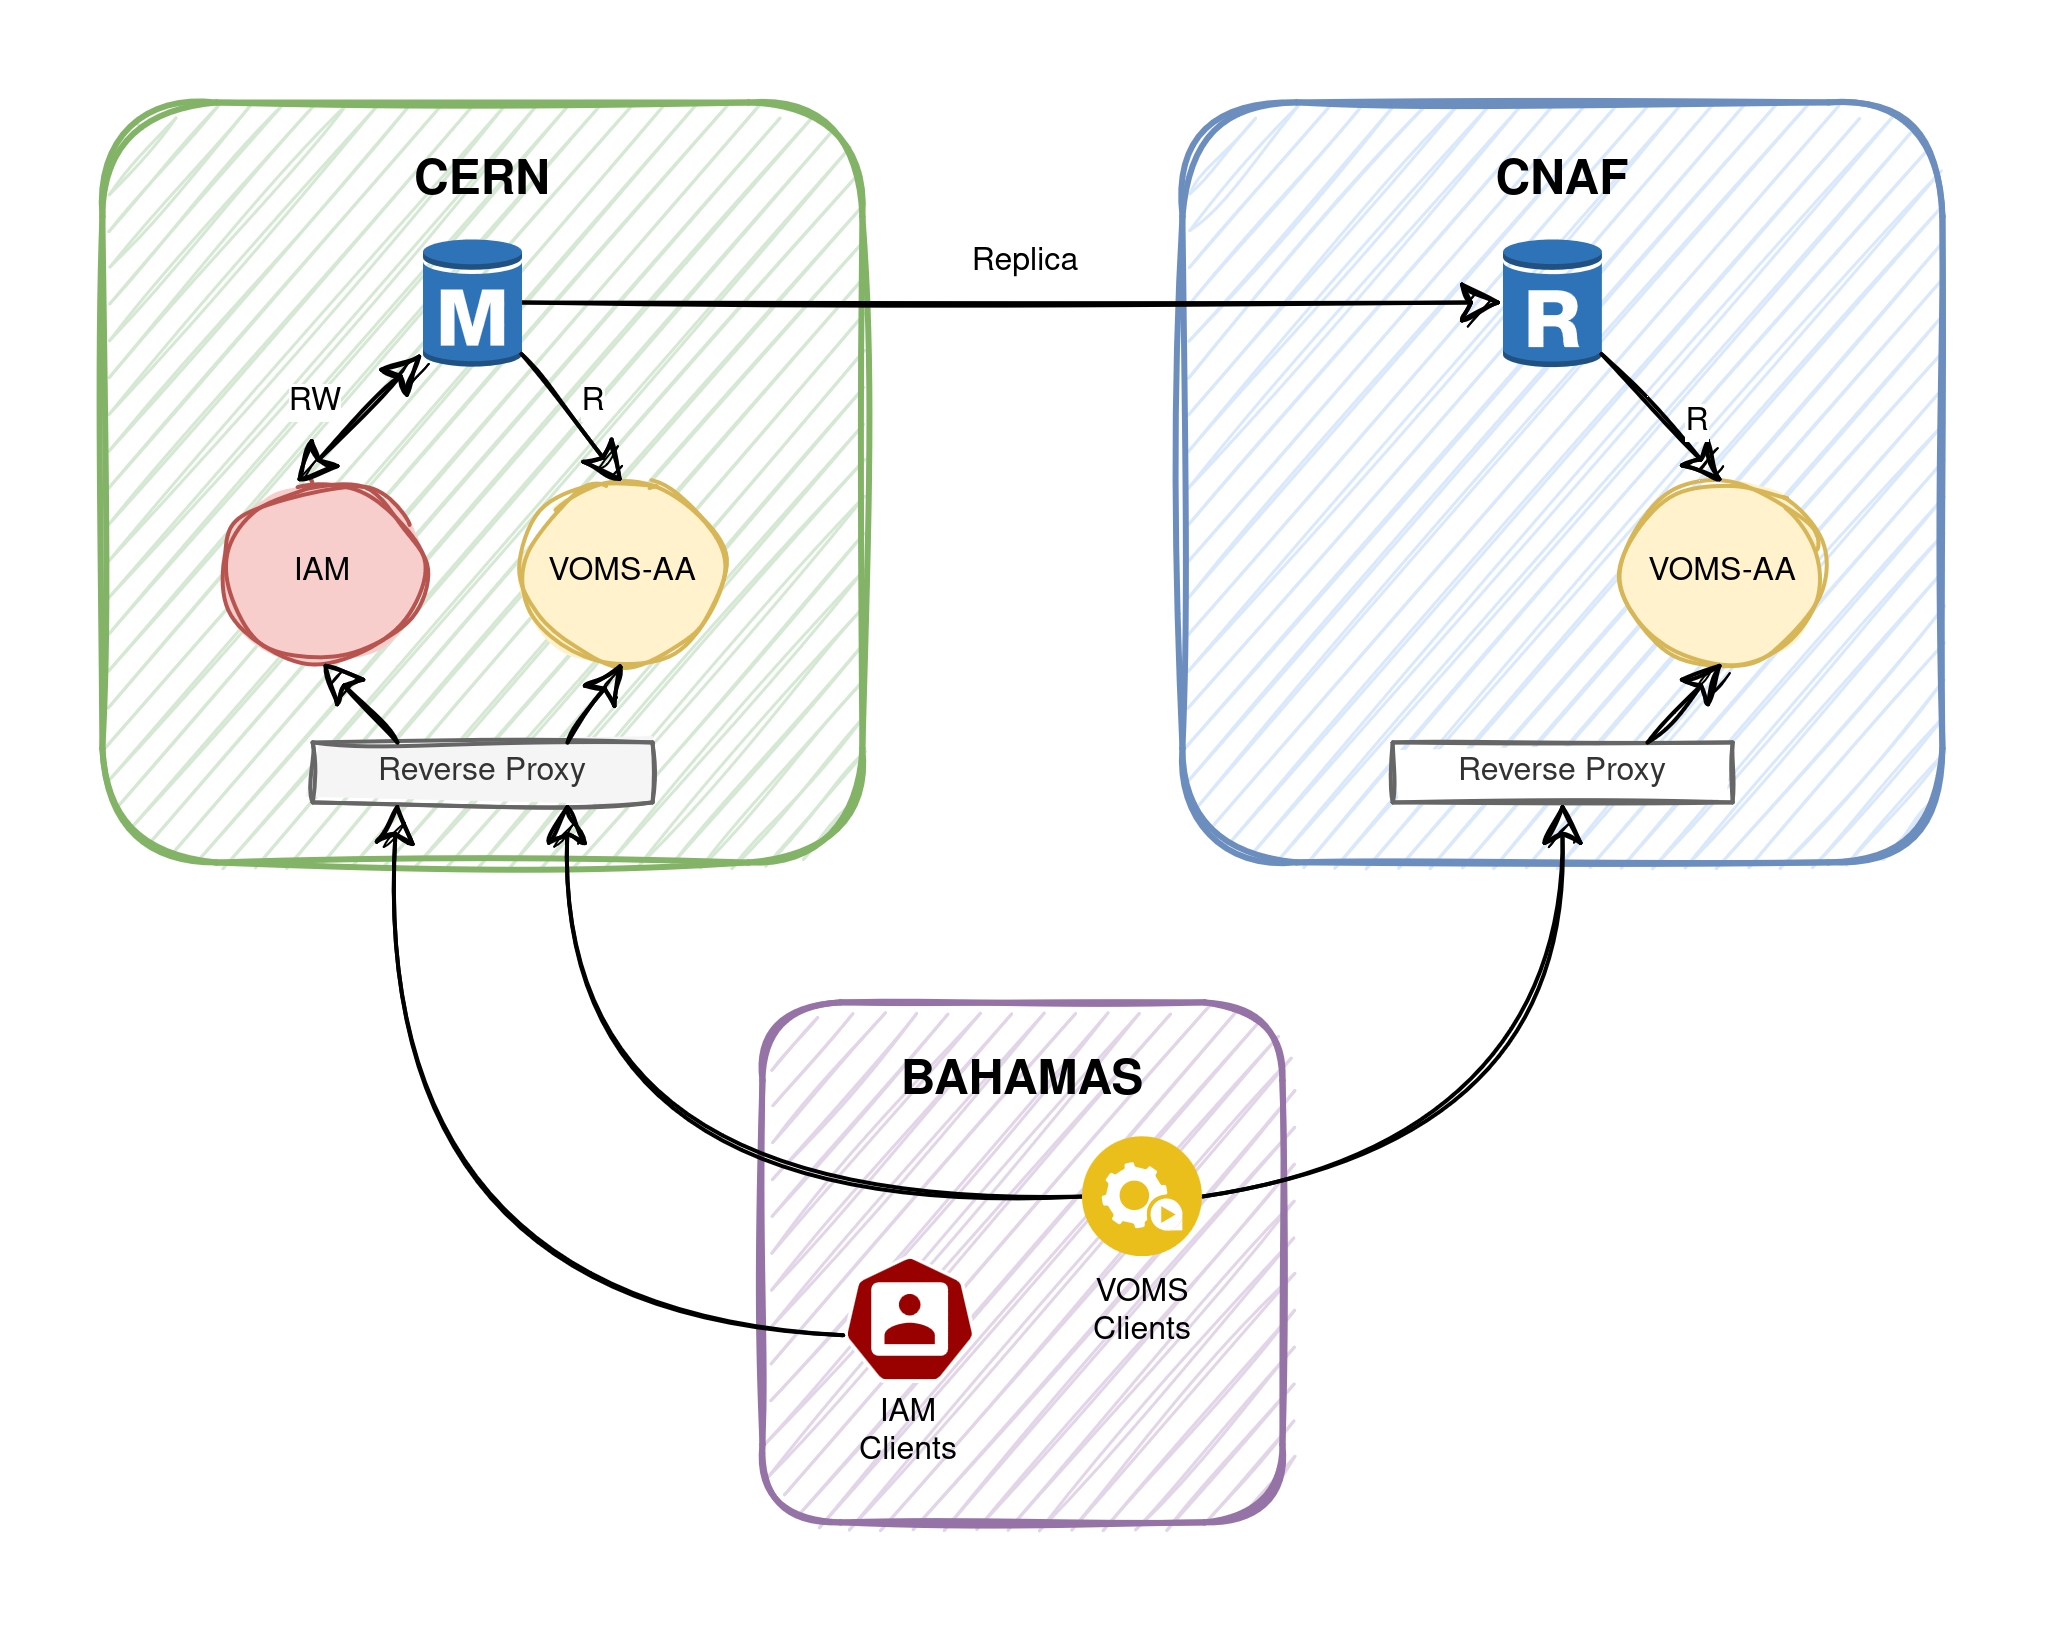
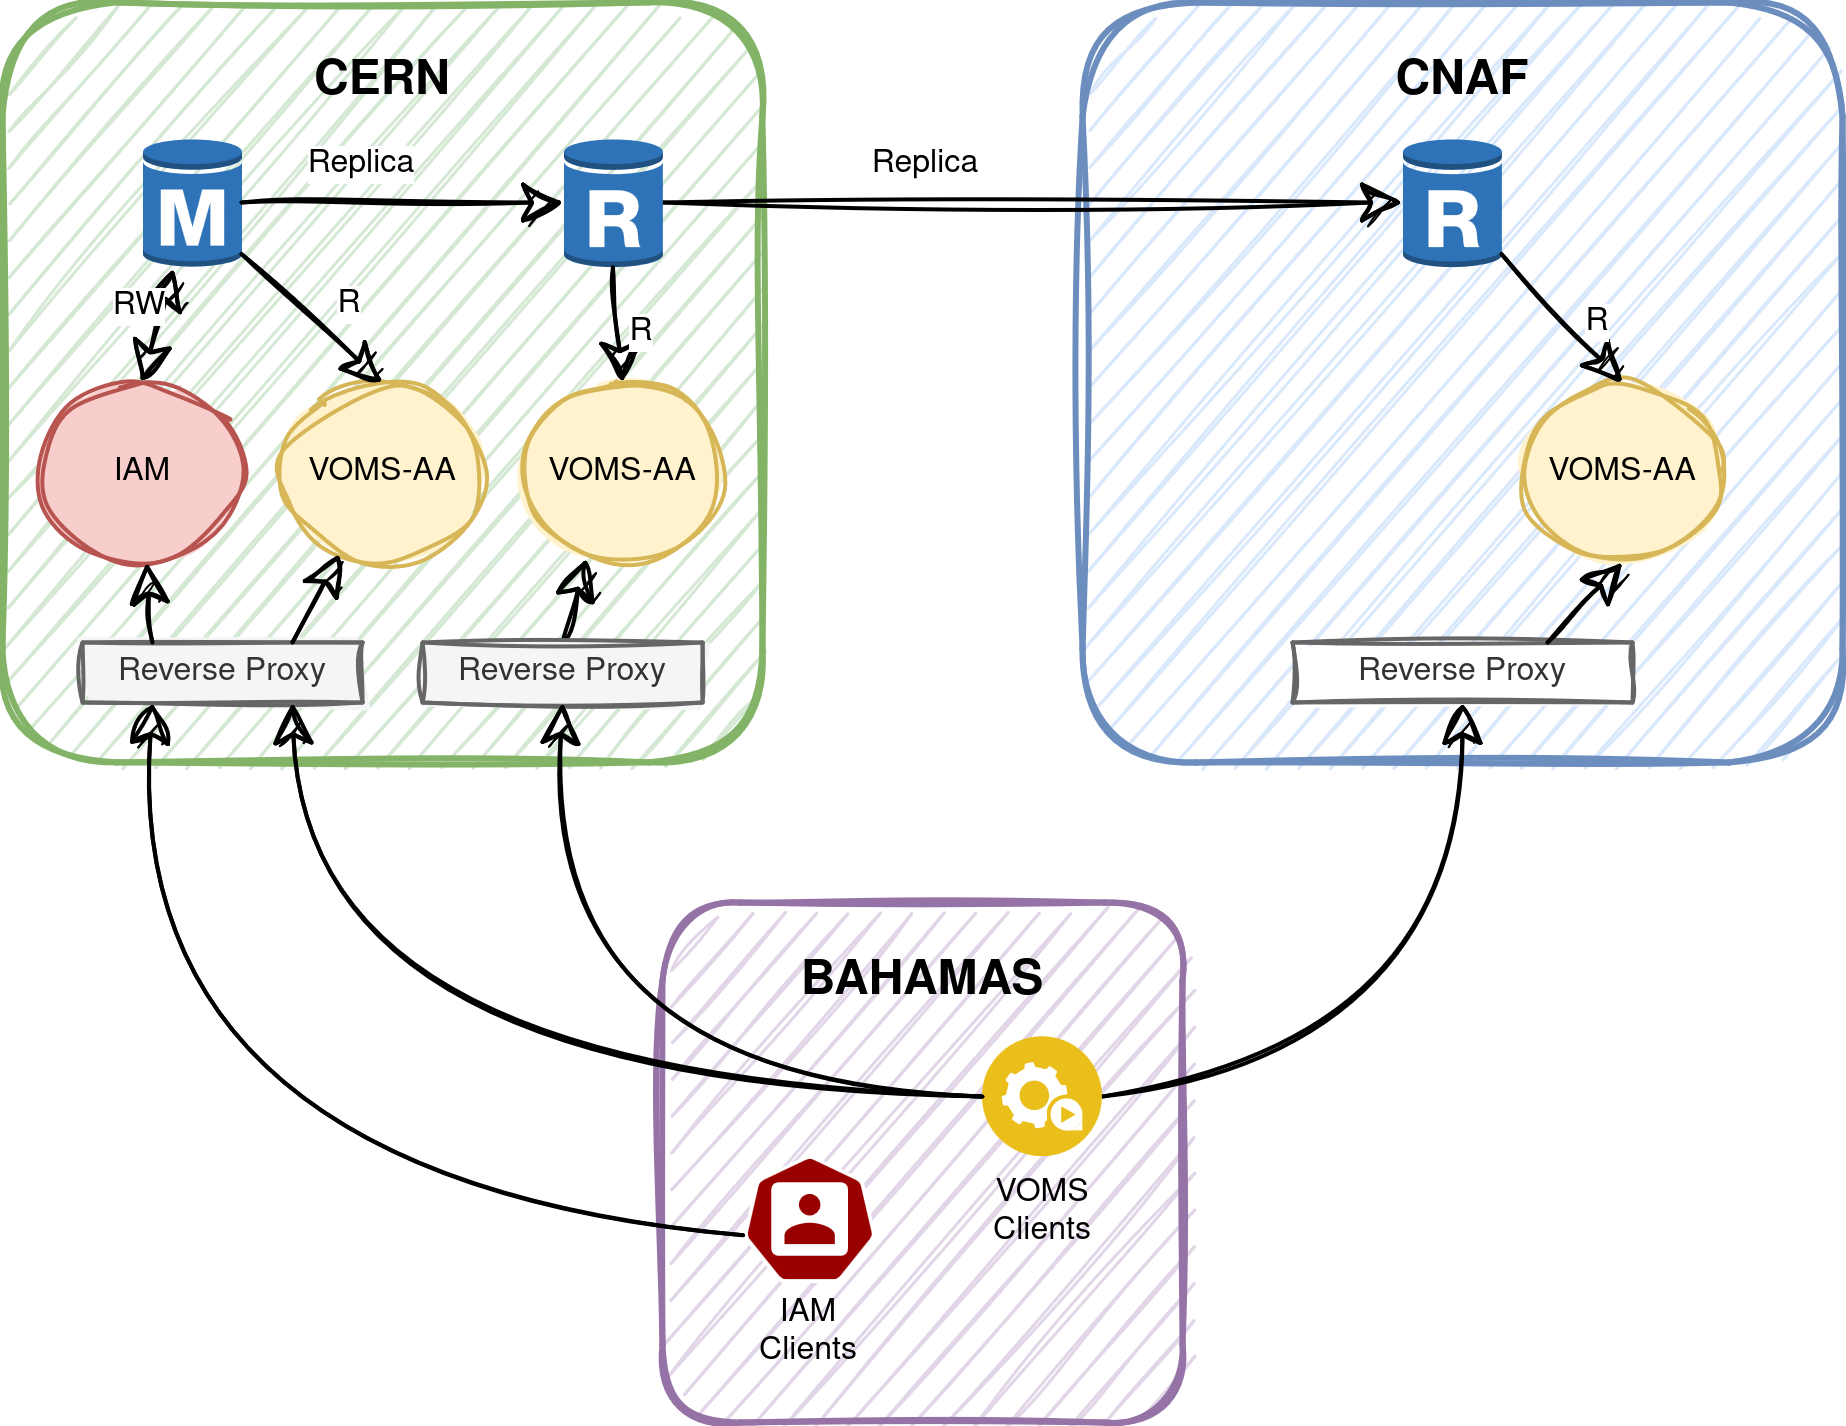
Update README

diff --git a/compose/voms-replica/README.md b/compose/voms-replica/README.md
@@ -1,20 +1,43 @@
 # VOMS-AA Replica
 
-This folder contains a docker compose example to deploy two VOMS-AA with a DB replica.
+This folder contains a docker compose example to deploy three instances of VOMS-AA in two sites with a DB replica.
 
 ![Setup schema.](VOMS-AA_replica.png)
 
 With this setup the VOMS-AA service can be replicated on one or more remote locations. If one location fails or is overloaded, a VOMS client can connect to the other locations.
 
-## Deployment
+## Deployment description
 
-The services defined here are:
-* `trust`: docker image for the GRID CA certificates plus the `igi-test-ca` used in this deployment for test certificates
+The `compose` file definises a few containers:
+
+* `trust`: docker image for the GRID CA certificates plus the `igi-test-ca` used in this deployment for test certificates.
+
+The actual VOMS services are virtually divided between three sites:
+
+#### Site 1: CERN
 * `db-primary`: a dump of the IAM db for test environment. In addition to the db populated with the iam `mysql-dev` profile, the user `test` has a certificate with DN `/C=IT/O=IGI/CN=test0` linked to his account and he also is part of the `indigo-dc` group (necessary to obtain VOMS proxies). A second SQL script creates a `replicator` user for replica.
-* `db-replica`: a DB configured to replicate all the statements of `db-primary`, from the initial one. It conects with SSL and is configured to be read-only. Only the IAM DB tables which are used by VOMS-AA are replicated. You can see them [here](assets/mysql-conf/replica.cnf).
-* `ngx-primary` and `ngx-replica`: an extension to NGINX, used for TLS termination, reverse proxy and possibly VOMS proxies validation. They sends requests to the corresponding `vomsaa-primary` and `vomsaa-replica` services.
+* `db-replica`: a DB configured to replicate the statements of `db-primary`, from the initial one. It conects with SSL and is configured to be read-only. Only the IAM DB tables which are used by VOMS-AA are replicated. You can see them [here](assets/mysql-conf/replica.cnf).
 * `vomsaa-primary` and `vomsaa-replica`: the main voms-aa microservices, each connected to their own DB.
-* `client`: it is a single container containing GRID clients (in particular `voms-proxy-init`) used to query both the primary and replica voms-aa (via ngx).
+* `ngx-primary` and `ngx-replica`: an extension to NGINX, used for TLS termination, reverse proxy and possibly VOMS proxies validation. They sends requests to the corresponding `vomsaa-primary` and `vomsaa-replica` services.
+
+
+#### Site 2: CNAF
+* `db-remote`: this is a full replica of `db-replica`. Only the tables used by VOMS-AA are present in `db-replica`, and thus we avoiding transmitting over the remote network useless information.
+* `vomsaa-remote`
+* `ngx-remote`
+
+#### Site 3: Anywhere else
+* `client`: it is a single container containing GRID clients (in particular `voms-proxy-init`) used to query both the VOMS services. It connects in round-robin fashion to each endpoint and when one fails it falls back to the others. Here a p12 file for the test user encrypted with the `pass` password is present in the well-known directory (`/home/test/.globus/usercred.p12`). It can be used to obtain a VOMS proxy by `voms-aa` serving a VO named `indigo-dc`.
+
+### Networking
+
+We use a few distinct networks, similar to a real scenario:
+
+* `site1-lan` and `site2-lan`: The internal LAN of the two sites. These are used to connect the DB, VOMS-AA and NGINX between them inside the same site.
+* `site-to-site-tunnel`: This is a VPN network or any tunnel network between the two sites, used by `db-remote` to connect to `db-replica`.
+* `wan`: The NGINX servers are exposed on the public network so that the clients can connect from anywhere.
+
+## Test
 
 Run the docker-compose with
 
@@ -22,52 +45,46 @@ Run the docker-compose with
 $ docker-compose up -d
 ```
 
-and wait for the `trust` service to finish; `ngx-primary` and `ngx-replica` will be available afterwards.
+and wait for the `trust` service to finish; all the services will be available shortly afterwards.
 
-### VOMS clients
+To query the voms-aa using the VOMS client, run:
 
-To test the two voms-aa using VOMS clients, enter in the container with
-
-```
-$ docker-compose exec client bash
-```
-
-Here a p12 file for the test user encrypted with the `pass` password is present in the well-known directory (`/home/test/.globus/usercred.p12`). It can be used to obtain a VOMS proxy by `voms-aa` serving a VO named `indigo-dc` with
-
-```
-$ voms-proxy-init -voms indigo-dc
-Enter GRID pass phrase for this identity: <***>
-Contacting voms-primary.test.example:443 [/C=IT/O=IGI/CN=*.test.example] "indigo-dc"...
+``` 
+$ docker-compose exec client voms-proxy-init -voms indigo-dc
+Enter GRID pass phrase for this identity:
+Contacting voms-remote.test.example:443 [/C=IT/O=IGI/CN=*.test.example] "indigo-dc"...
 Remote VOMS server contacted succesfully.
 
 
 Created proxy in /tmp/x509up_u1000.
 
-Your proxy is valid until Sat Mar 02 00:07:01 CET 2024
+Your proxy is valid until Sat Mar 16 03:54:38 CET 2024
 ```
 
 Check the content of the proxy with
 
 ```
-$ voms-proxy-info -all
-subject   : /C=IT/O=IGI/CN=test0/CN=1946803410
+$ docker compose exec client voms-proxy-info -all
+subject   : /C=IT/O=IGI/CN=test0/CN=441572696
 issuer    : /C=IT/O=IGI/CN=test0
 identity  : /C=IT/O=IGI/CN=test0
 type      : RFC3820 compliant impersonation proxy
 strength  : 2048
 path      : /tmp/x509up_u1000
-timeleft  : 11:59:36
+timeleft  : 11:59:45
 key usage : Digital Signature, Non Repudiation, Key Encipherment
 === VO indigo-dc extension information ===
 VO        : indigo-dc
 subject   : /C=IT/O=IGI/CN=test0
 issuer    : /C=IT/O=IGI/CN=*.test.example
-attribute : /indigo-dc
-timeleft  : 11:59:35
-uri       : voms.test.example:8080
+attribute : /indigo-dc/Role=NULL/Capability=NULL
+timeleft  : 11:59:45
+uri       : voms-remote.test.example:8080
+
 ```
-This will select one of the two voms-aa in round robin fashion, and when one fails it will fallback to the other. If you want to force the query to one voms-aa use one of the followings:
+If you want to force the query to one voms-aa use one of the followings:
 ```
-$ voms-proxy-init -voms voms-primary
-$ voms-proxy-init -voms voms-replica
+$ docker-compose exec client voms-proxy-init -voms voms-primary
+$ docker-compose exec client voms-proxy-init -voms voms-replica
+$ docker-compose exec client voms-proxy-init -voms voms-remote
 ```
